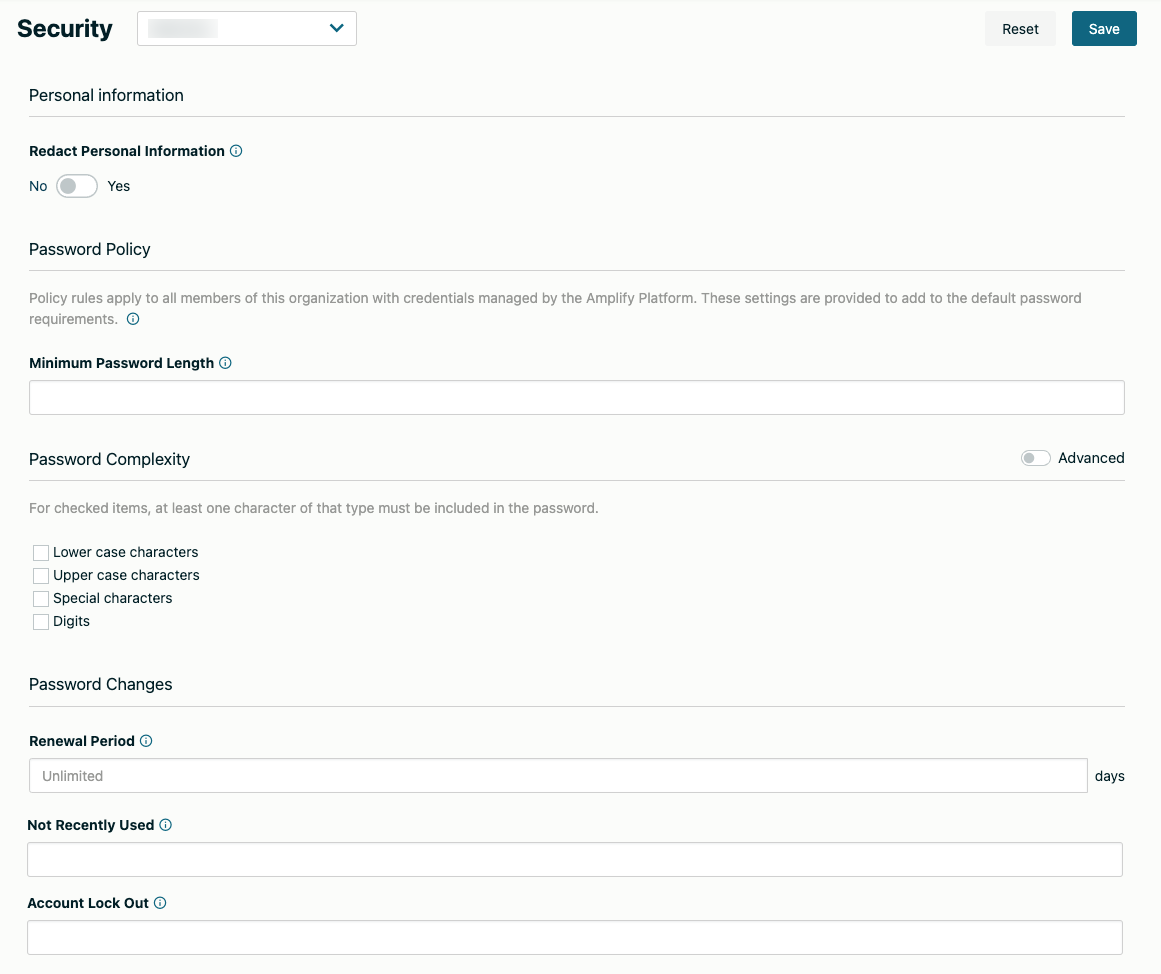
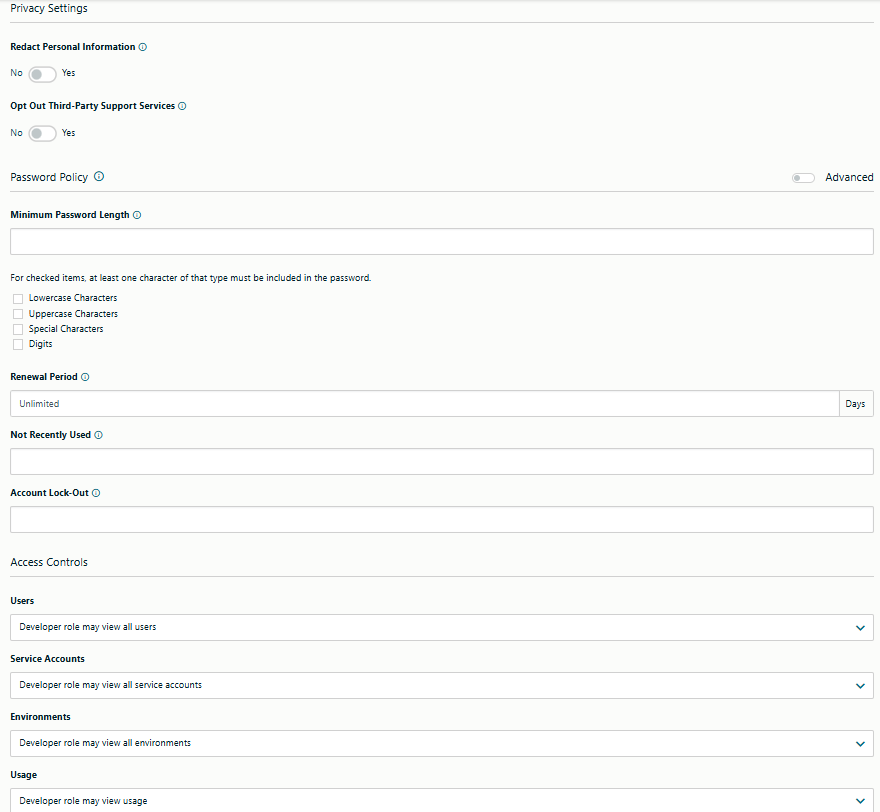
Add missing Access Controls information (#173)

diff --git a/content/en/docs/management_guide/organizations/managing_organizations/managing_organization_settings/managing_security_settings.md b/content/en/docs/management_guide/organizations/managing_organizations/managing_organization_settings/managing_security_settings.md
@@ -6,13 +6,17 @@ date: 2021-08-12
 ---
 Redact personal information and configure password policy rules to add to the default password requirements.
 
-Click **Security** from the Organization - Settings menu to access organization security settings. Then, select the organization from the *Organization* dropdown menu to configure the following settings for the specified organization.
+Click **Security & Privacy** from the Organization - Settings menu to access organization security settings. Then, select the organization from the *Organization* dropdown menu to configure the following settings for the specified organization.
 
 ![Managing organization settings](/Images/settings_tab_security.png)
 
 ## Redact personal information
 
 Select the option to **Redact Personal Information** to redact email addresses within an organization where the user's email address is displayed, except the *Account* view. The email address on the *Account* view is always redacted, whether the setting is enabled or disabled. By default, the setting is disabled.
+
+## Opt out third-party support services
+
+Select this option to **Opt Out Third-Party Support Services** to disable third-party support services within the Axway platform once logged into an organization.
 
 ## Configure password settings
 
@@ -28,3 +32,18 @@ Administrators have the option to configure additional password settings to add 
 * **Renewal period** - Number of days after which a user must change their password.
 * **Not Recently Used** - Number of times a unique password is required before a previously used password can be reused.
 * **Account Lock Out** - Number of times a user can attempt to sign in with an incorrect password before the account is locked.
+
+## Configure access controls
+
+Administrators have the option to restrict the information that the Developer role can access. By default, individuals assigned to the Developer role has permission to **view all**. For enhanced security, administrators can use the provided dropdown menus to limit the developers' access to specific categories of information based on organizational policies and the specific responsibilities of the Developer role.
+
+* **Users** - Developers' view of users within the selected organization.
+    * **Developer role cannot view users**
+    * **Developer role may view administrators and other users in their teams**
+* **Service Accounts** - Developers' view of service accounts within the selected organization.
+    * **Developer role cannot view service accounts**
+    * **Developer role may view service accounts in their teams**
+* **Environments** - Developers' view of environment details within the selected organization.
+    * **Developer role cannot view environments**
+* **Usage** - Developers' view of the usage of allocated resources for the selected organization.
+    * **Developer role cannot view usage**
